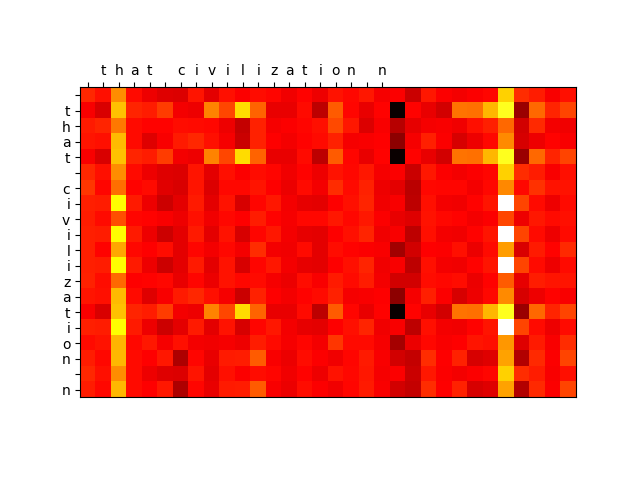
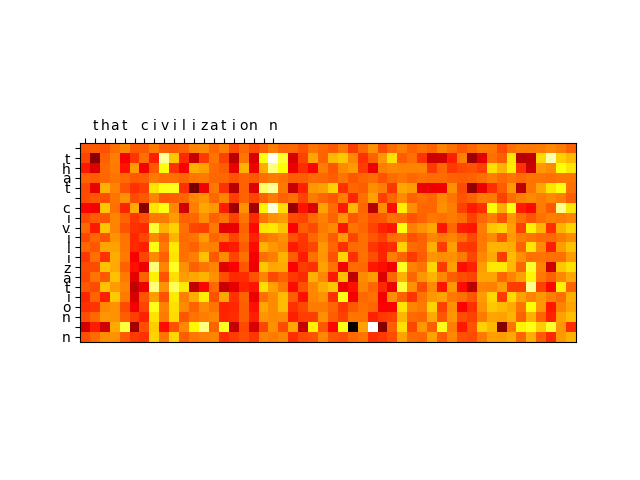
Part 1

diff --git a/transformer.py b/transformer.py
@@ -54,7 +54,7 @@ class Transformer(nn.Module):
         """
 
         x = self.embedding(indices)
-        # x = self.positional_encoding(x)
+        x = self.positional_encoding(x)
 
         attention_maps = []
 
@@ -156,14 +156,14 @@ def train_classifier(args, train, dev):
     model = Transformer(
         vocab_size=27,
         num_positions=20,
-        d_model=64,
-        d_internal=32,
+        d_model=100,
+        d_internal=50,
         num_classes=3,
-        num_layers=1
+        num_layers=3
     )
     model.zero_grad()
     model.train()
-    optimizer = optim.Adam(model.parameters(), lr=0.001)
+    optimizer = optim.Adam(model.parameters(), lr=0.0001)
     loss_fcn = nn.NLLLoss()
 
     num_epochs = 10
@@ -173,8 +173,6 @@ def train_classifier(args, train, dev):
         random.shuffle(train)
 
         for example in train:
-
-            # x = example.input_tensor.unsqueeze(1)
 
             x = example.input_tensor
 
